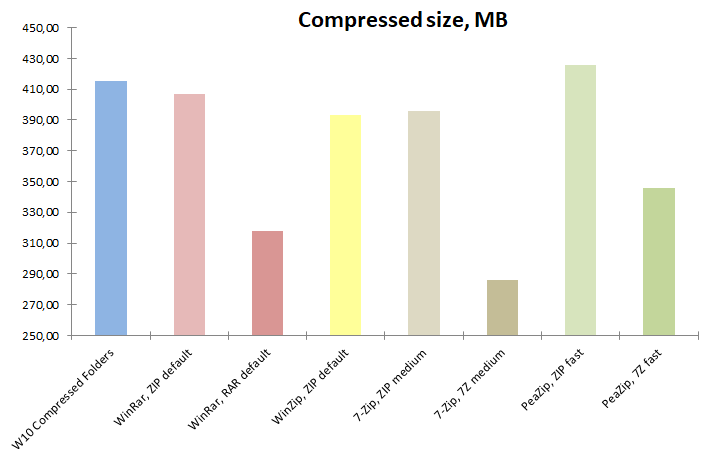
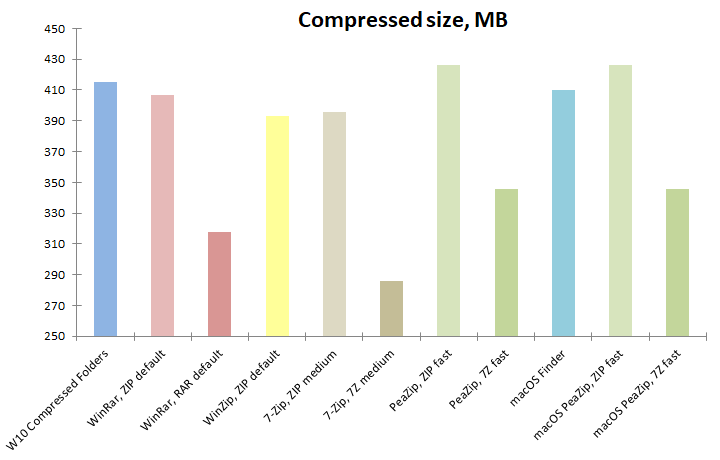
Add files via upload

diff --git a/peazip-compression-benchmark.html b/peazip-compression-benchmark.html
@@ -302,6 +302,8 @@ are run on Windows 10 64 bit, using 64 bit versions of:<br>
                           <li>WinZip 76.9<br>
                           </li>
                           <li>Windows 10 built-in Compressed Folders</li>
+                          <li>macOS 15.5 Finder compression tool<br>
+                          </li>
                         </ul>
                         </td>
                       </tr>
@@ -318,13 +320,17 @@ are run on Windows 10 64 bit, using 64 bit versions of:<br>
                         <h4><big><span style="font-weight: bold;">Hardware
 settings</span></big></h4>
                         <br>
-Notebook with Intel Core i7-8565U CPU, 4
+Windows: notebook with Intel Core i7-8565U CPU, 4
 physical cores with hyper-threading (8 logical cores), 8 GB RAM.<br>
 System disk 512 GB
 PCIe NVMe SSD with NTFS filesystem.<br>
 With 7-Zip benchmark score of 23500, this machine represents an entry
 level specs
-system for today's standards. </td>
+system for today's standards.<br>
+                        <br>
+macOS: 2020 MacBook Air with M1 chip.<br>
+7-Zip benchmark score 46000.<br>
+                        </td>
                       </tr>
                     </tbody>
                   </table>
@@ -640,9 +646,64 @@ fast<br>
  style="vertical-align: top; width: 20%; text-align: center;">3,9<br>
                   </td>
                 </tr>
+                <tr>
+                  <td
+ style="vertical-align: top; width: 20%; text-align: right; background-color: rgb(204, 255, 255);">macOS
+Finder,
+ZIP<br>
+                  </td>
+                  <td
+ style="vertical-align: top; width: 20%; text-align: center; background-color: rgb(204, 255, 255);">410,00</td>
+                  <td
+ style="vertical-align: top; width: 20%; text-align: center; background-color: rgb(204, 255, 255);">32,62%<br>
+                  </td>
+                  <td
+ style="vertical-align: top; width: 20%; text-align: center; background-color: rgb(204, 255, 255);">38,4<br>
+                  </td>
+                  <td
+ style="vertical-align: top; width: 20%; text-align: center; background-color: rgb(204, 255, 255);">3,5<br>
+                  </td>
+                </tr>
+                <tr>
+                  <td
+ style="vertical-align: top; width: 20%; text-align: right; background-color: rgb(204, 255, 255);">macOS
+PeaZip,
+ZIP fast<br>
+                  </td>
+                  <td
+ style="vertical-align: top; width: 20%; text-align: center; background-color: rgb(204, 255, 255);">426,00</td>
+                  <td
+ style="vertical-align: top; width: 20%; text-align: center; background-color: rgb(204, 255, 255);">33,89%<br>
+                  </td>
+                  <td
+ style="vertical-align: top; width: 20%; text-align: center; background-color: rgb(204, 255, 255);">16,4<br>
+                  </td>
+                  <td
+ style="vertical-align: top; width: 20%; text-align: center; background-color: rgb(204, 255, 255);">5,3<br>
+                  </td>
+                </tr>
+                <tr>
+                  <td
+ style="vertical-align: top; width: 20%; text-align: right; background-color: rgb(204, 255, 255);">macOS
+PeaZip, 7Z
+fast<br>
+                  </td>
+                  <td
+ style="vertical-align: top; width: 20%; text-align: center; background-color: rgb(204, 255, 255);">346,00</td>
+                  <td
+ style="vertical-align: top; width: 20%; text-align: center; background-color: rgb(204, 255, 255);">27,53%<br>
+                  </td>
+                  <td
+ style="vertical-align: top; width: 20%; text-align: center; background-color: rgb(204, 255, 255);">25,8<br>
+                  </td>
+                  <td
+ style="vertical-align: top; width: 20%; text-align: center; background-color: rgb(204, 255, 255);">1,9<br>
+                  </td>
+                </tr>
               </tbody>
             </table>
-            <span style="font-style: italic;">Archive size in MB (lower
+            <span style="font-style: italic;"><br>
+Archive size in MB (lower
 better), compression ratio of input data, and time in seconds (lower
 better) to complete compression and de-compression of data.</span><br>
             <br>
@@ -666,7 +727,7 @@ an intermediate output size.<br>
             <br>
 As for ZIP compression, WinZip provides the best result, even if it is
 significantly worse (larger output) even of 7Z at fast compression
-level,.<br>
+level.<br>
             <br>
             <br>
             <h3 style="text-align: center;"><img
@@ -689,6 +750,11 @@ Fastest non-zip compressor is PeaZip using 7Z fast, with RAR being
 almost twice as slow, and 7Z medium being almost 6 times slower.<br>
 WinZip notably provides the slowest ZIP compression performance, even
 solwer than RAR compression.<br>
+            <br>
+On macOS, Finder compresses significantly slower than PeaZip, with "ZIP
+fast" compression being over 2x faster that Finder ZIP compression, and
+"7Z fast" compression being 1,5x faster while providing significantly
+better compression ratio (+5%, -64MB output size).<br>
             <br>
             <br>
             <h3 style="text-align: center;"><img
@@ -721,6 +787,11 @@ WinRar (RAR).<br>
 As for ZIP format extraction, 7-Zip, PeaZip, and WinRar performances
 are very close, while WinZip and Windows 10 Compressed Folders are
 significantly slower.<br>
+            <br>
+On macOS, Finder provides remarkably fast extraction of its own ZIp
+archive, outperforming PeaZip "ZIP fast" but being almost 2x slower
+than extraction of PeaZip "7Z fast", due to the .7Z format optimization
+for extraction speed holding true on macOS platform.<br>
             <br>
             <br>
             <h3 style="text-align: center;"><img
@@ -784,7 +855,7 @@ the main
 concerns, with WinRar and PeaZip providing faster ZIP compression
 even
 if at the cost of losing some compression ratio compared to other
-utilities<br>
+utilities.<br>
             <br>
             <span style="font-weight: bold;"><a
  name="best_compression_algorithm"></a></span>RAR and 7Z formats

diff --git a/benchmark-open-large-archive.html b/benchmark-open-large-archive.html
@@ -542,88 +542,96 @@ Compressed Folders<br>
                 </tr>
                 <tr>
                   <td
- style="vertical-align: top; width: 25%; text-align: right;">PeaZip for
+ style="vertical-align: top; width: 25%; text-align: right; background-color: rgb(204, 204, 255);">PeaZip
+for
 Linux GTK2<br>
                   </td>
                   <td
- style="vertical-align: top; width: 25%; text-align: center;">0.9<br>
+ style="vertical-align: top; width: 25%; text-align: center; background-color: rgb(204, 204, 255);">0.9<br>
                   </td>
                   <td
- style="vertical-align: top; width: 25%; text-align: center;">3.1<br>
+ style="vertical-align: top; width: 25%; text-align: center; background-color: rgb(204, 204, 255);">3.1<br>
                   </td>
                   <td
- style="vertical-align: top; width: 25%; text-align: center;">9.3<br>
+ style="vertical-align: top; width: 25%; text-align: center; background-color: rgb(204, 204, 255);">9.3<br>
                   </td>
                 </tr>
                 <tr>
                   <td
- style="vertical-align: top; width: 25%; text-align: right;">PeaZip for
+ style="vertical-align: top; width: 25%; text-align: right; background-color: rgb(204, 204, 255);">PeaZip
+for
 Linux Qt6<br>
                   </td>
                   <td
- style="vertical-align: top; width: 25%; text-align: center;">0.8<br>
+ style="vertical-align: top; width: 25%; text-align: center; background-color: rgb(204, 204, 255);">0.8<br>
                   </td>
                   <td
- style="vertical-align: top; width: 25%; text-align: center;">3.2<br>
+ style="vertical-align: top; width: 25%; text-align: center; background-color: rgb(204, 204, 255);">3.2<br>
                   </td>
                   <td
- style="vertical-align: top; width: 25%; text-align: center;">2.1<br>
+ style="vertical-align: top; width: 25%; text-align: center; background-color: rgb(204, 204, 255);">2.1<br>
                   </td>
                 </tr>
                 <tr>
                   <td
- style="vertical-align: top; width: 25%; text-align: right;">Gnome
+ style="vertical-align: top; width: 25%; text-align: right; background-color: rgb(204, 204, 255);">Gnome
 Archive Manager<br>
                   </td>
                   <td
- style="vertical-align: top; width: 25%; text-align: center;">0.9<br>
+ style="vertical-align: top; width: 25%; text-align: center; background-color: rgb(204, 204, 255);">0.9<br>
                   </td>
                   <td
- style="vertical-align: top; width: 25%; text-align: center;">5.0<br>
+ style="vertical-align: top; width: 25%; text-align: center; background-color: rgb(204, 204, 255);">5.0<br>
                   </td>
                   <td
- style="vertical-align: top; width: 25%; text-align: center;">1.4<br>
+ style="vertical-align: top; width: 25%; text-align: center; background-color: rgb(204, 204, 255);">1.4<br>
                   </td>
                 </tr>
                 <tr>
                   <td
- style="vertical-align: top; width: 25%; text-align: right;">PeaZip for
+ style="vertical-align: top; width: 25%; text-align: right; background-color: rgb(204, 255, 255);">PeaZip
+for
 macOS aarch64<br>
                   </td>
                   <td
- style="vertical-align: top; width: 25%; text-align: center;">0.4<br>
+ style="vertical-align: top; width: 25%; text-align: center; background-color: rgb(204, 255, 255);">0.4<br>
                   </td>
                   <td
- style="vertical-align: top; width: 25%; text-align: center;">2.3<br>
+ style="vertical-align: top; width: 25%; text-align: center; background-color: rgb(204, 255, 255);">2.3<br>
                   </td>
                   <td
- style="vertical-align: top; width: 25%; text-align: center;">1.2<br>
+ style="vertical-align: top; width: 25%; text-align: center; background-color: rgb(204, 255, 255);">1.2<br>
                   </td>
                 </tr>
                 <tr>
                   <td
- style="vertical-align: top; width: 25%; text-align: right;">PeaZip for
+ style="vertical-align: top; width: 25%; text-align: right; background-color: rgb(204, 255, 255);">PeaZip
+for
 macOS x86_64<br>
                   </td>
                   <td
- style="vertical-align: top; width: 25%; text-align: center;">0.8<br>
+ style="vertical-align: top; width: 25%; text-align: center; background-color: rgb(204, 255, 255);">0.8<br>
                   </td>
                   <td
- style="vertical-align: top; width: 25%; text-align: center;">3.2<br>
+ style="vertical-align: top; width: 25%; text-align: center; background-color: rgb(204, 255, 255);">3.2<br>
                   </td>
                   <td
- style="vertical-align: top; width: 25%; text-align: center;">1.6<br>
+ style="vertical-align: top; width: 25%; text-align: center; background-color: rgb(204, 255, 255);">1.6<br>
                   </td>
                 </tr>
                 <tr>
-                  <td style="vertical-align: top; text-align: right;">PeaZip
+                  <td
+ style="vertical-align: top; text-align: right; background-color: rgb(204, 255, 255);">PeaZip
 for
 Linux GTK2 aarch64</td>
-                  <td style="vertical-align: top; text-align: center;">0,6<br>
+                  <td
+ style="vertical-align: top; text-align: center; background-color: rgb(204, 255, 255);">0,6<br>
                   </td>
-                  <td style="vertical-align: top; text-align: center;">2,1<br>
+                  <td
+ style="vertical-align: top; text-align: center; background-color: rgb(204, 255, 255);">2,1<br>
                   </td>
-                  <td style="vertical-align: top; text-align: center;">4,3<br>
+                  <td
+ style="vertical-align: top; text-align: center; background-color: rgb(204, 255, 255);">4,3<br>
                   </td>
                 </tr>
               </tbody>

diff --git a/fastest-compression-zip-deflate-benchmark.html b/fastest-compression-zip-deflate-benchmark.html
@@ -642,7 +642,8 @@ fastest Zstd </td>
                 </tr>
               </tbody>
             </table>
-            <span style="font-style: italic;">Archive size in MB (lower
+            <span style="font-style: italic;"><br>
+Archive size in MB (lower
 better), compression ratio of input data, and time in seconds (lower
 better) to complete compression and de-compression of data.</span><br>
             <br>

diff --git a/maximum-compression-benchmark.html b/maximum-compression-benchmark.html
@@ -625,7 +625,8 @@ ZPAQ ultra</td>
                 </tr>
               </tbody>
             </table>
-            <span style="font-style: italic;">Archive size in MB (lower
+            <span style="font-style: italic;"><br>
+Archive size in MB (lower
 better), compression ratio of input data, and time in seconds (lower
 better) to complete compression and de-compression of data.</span><br>
             <br>
